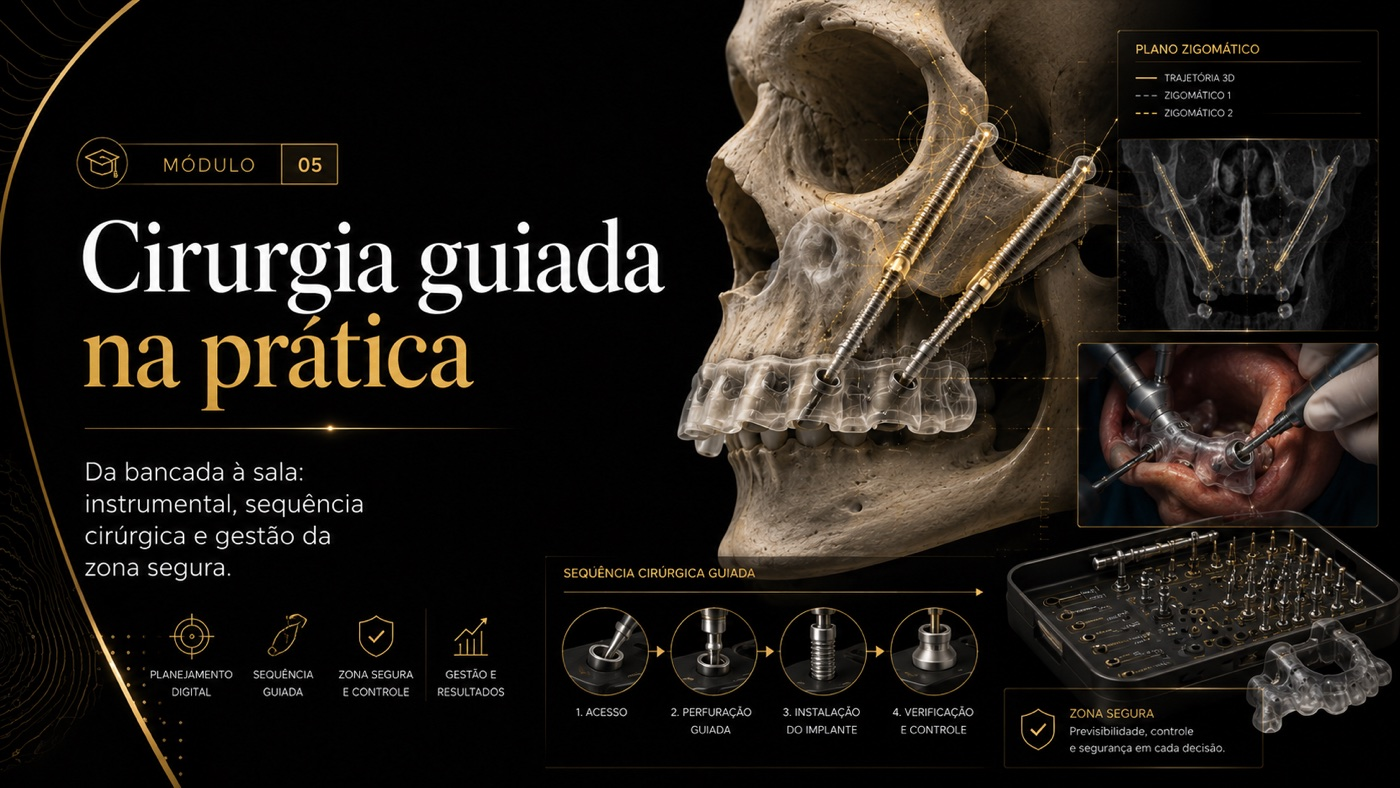
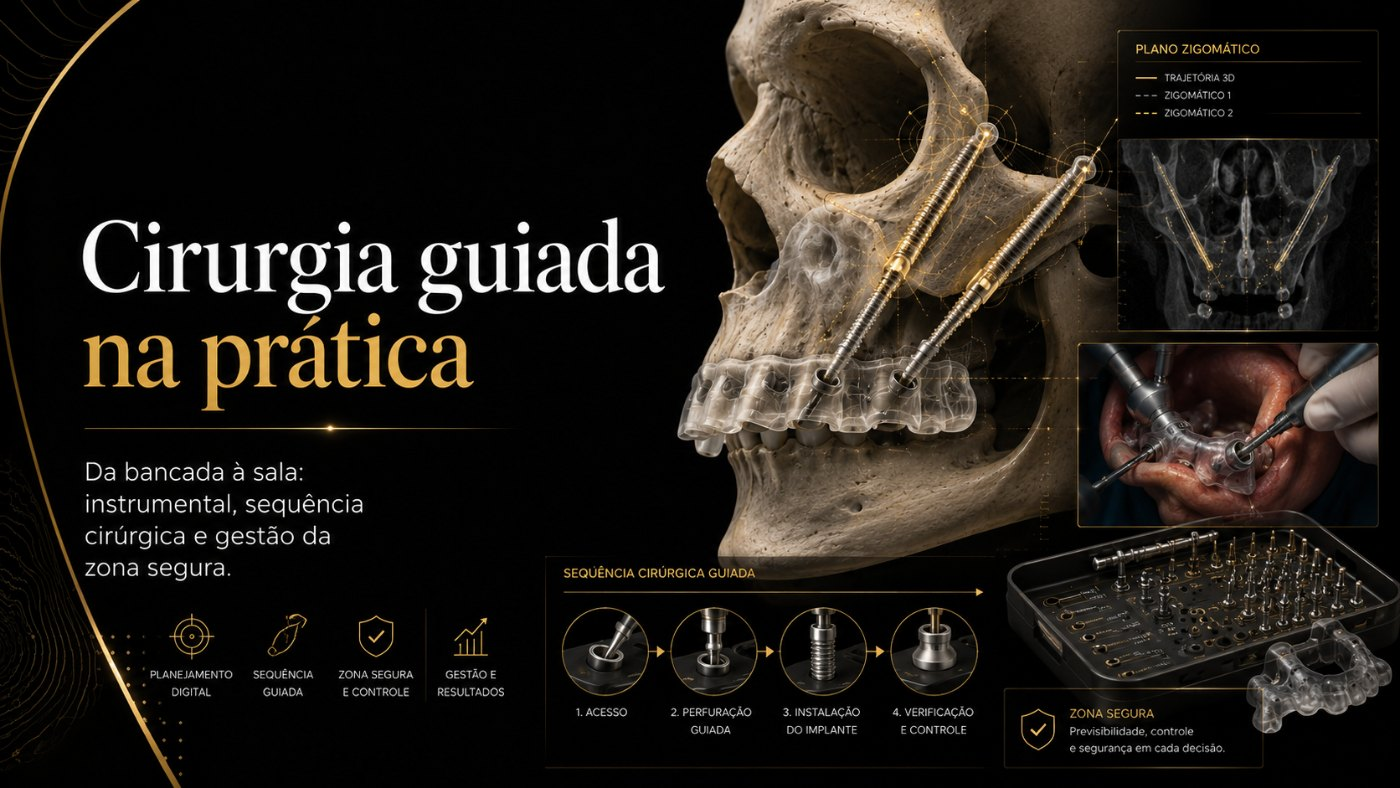
feat: artes nas 4 trilhas da mentoria de zigomático, sem o selo errado (#75)
A seção "O conteúdo" da mentoria (TRILHAS) tinha o campo `img` previsto e
nunca usado — os 4 cards mostravam o placeholder "Etapa 0N". Agora cada
trilha traz a arte correspondente.

**As artes já existiam no repo.** São as mesmas 4 da Maestria
(`public/images/modulo-*.jpg`, 1400×788, o 16:9 exato do `.mz-mod-media`),
compactadas em 11/08 no PR #38. Arquivo compartilhado, não duplicado, como
já acontece com as 7 fotos de caso. O par arte↔trilha não é chute: os
`resumo` do content.ts são literalmente os subtítulos gravados nas artes.

**O selo "MÓDULO 05" e "MÓDULO 06" foi apagado das duas artes.** Aquela
numeração não bate com lugar nenhum: aqui os cards dizem "Etapa 03" e
"Etapa 04", e na Maestria dizem "Módulo 03" e "Módulo 04" — o choque já
estava no ar lá desde 11/08 e ia se repetir aqui, agora com o substantivo
divergindo também. Como o arquivo é compartilhado, apagar corrigiu as duas
páginas de uma vez.

Deu para remover sem deixar mancha porque o fundo atrás do selo é preto
chapado: média RGB ~0,8 com desvio ~0,65 nas faixas acima e abaixo. O
preenchimento interpola verticalmente entre essas duas faixas e recebe
ruído do mesmo desvio, em vez de um retângulo de cor fixa. Conferido: o
pixel mais claro que sobrou dentro da caixa soma 3–4, contra o limiar 60
que separa fundo de elemento aceso.

Reprocessado a partir dos PNGs originais 1672×941, não dos JPEG já
comprimidos, para não empilhar duas gerações de compressão. Os dois
[…]

Changed region(s): [[0.1229, 0.1827, 0.2457, 0.2437], [0.0614, 0.1827, 0.0921, 0.2437]]

diff --git a/components/mentoria-zigomatico/content.ts b/components/mentoria-zigomatico/content.ts
@@ -201,7 +201,22 @@ export const ENTREGAS: Entrega[] = [
 ];
 
 /* ---------- Trilhas / conteúdo na plataforma ----------
-   Reaproveita os temas do curso de zigomático (base teórica). */
+   Reaproveita os temas do curso de zigomático (base teórica).
+
+   As 4 artes são as MESMAS da Maestria (`public/images/modulo-*.jpg`,
+   1400×788, o 16:9 exato do `.mz-mod-media`) — arquivo compartilhado, não
+   duplicado, como as fotos de caso. Trocar o arquivo afeta as duas páginas.
+   Os `resumo` daqui são literalmente os subtítulos gravados nas artes, então
+   o par arte↔trilha é o do texto, não um chute.
+
+   ⚠ Duas dessas artes vinham com "MÓDULO 05" e "MÓDULO 06" gravados no
+   canto superior esquerdo, herança de uma numeração que não bate com lugar
+   nenhum: aqui os cards dizem "Etapa 03" e "Etapa 04", e na Maestria dizem
+   "Módulo 03" e "Módulo 04". O selo foi APAGADO das duas em 13/08/2026 (o
+   fundo ali é preto chapado, média RGB ~0,8 e desvio ~0,65, então saiu sem
+   deixar mancha), o que corrigiu de uma vez o choque que já estava no ar na
+   Maestria desde 11/08. Se alguém repuser essas artes vindas do designer,
+   confira o canto antes — elas nascem com o selo. */
 export type Trilha = {
   n: string;
   titulo: string;
@@ -216,6 +231,7 @@ export const TRILHAS: Trilha[] = [
     n: '01',
     titulo: 'Fundamentos e decisões críticas',
     resumo: 'A base conceitual e o raciocínio clínico que sustentam toda cirurgia zigomática segura.',
+    img: '/images/modulo-fundamentos-decisoes.jpg',
     blocos: [
       {
         aulas: [
@@ -231,6 +247,7 @@ export const TRILHAS: Trilha[] = [
     n: '02',
     titulo: 'Planejamento de alto impacto',
     resumo: 'O fluxo digital que transforma o caso mais complexo em um procedimento previsível.',
+    img: '/images/modulo-planejamento-alto-impacto.jpg',
     blocos: [
       {
         aulas: [
@@ -246,6 +263,7 @@ export const TRILHAS: Trilha[] = [
     n: '03',
     titulo: 'Cirurgia guiada na prática',
     resumo: 'Da bancada à sala: instrumental, sequência cirúrgica e gestão da zona segura.',
+    img: '/images/modulo-cirurgia-guiada.jpg',
     blocos: [
       {
         aulas: [
@@ -261,6 +279,10 @@ export const TRILHAS: Trilha[] = [
     n: '04',
     titulo: 'Prática presencial guiada',
     resumo: 'Onde a teoria vira mão: hands-on em laboratório e acompanhamento cirúrgico.',
+    /* Único par em que a arte não repete o título: ela se chama "Hands-on
+       guiado" e ilustra a Parte 1. A trilha tem duas partes (o hands-on e o
+       acompanhamento cirúrgico), e não existe arte da segunda. */
+    img: '/images/modulo-hands-on-guiado.jpg',
     blocos: [
       {
         sub: 'Parte 1 · Hands-on em laboratório',
